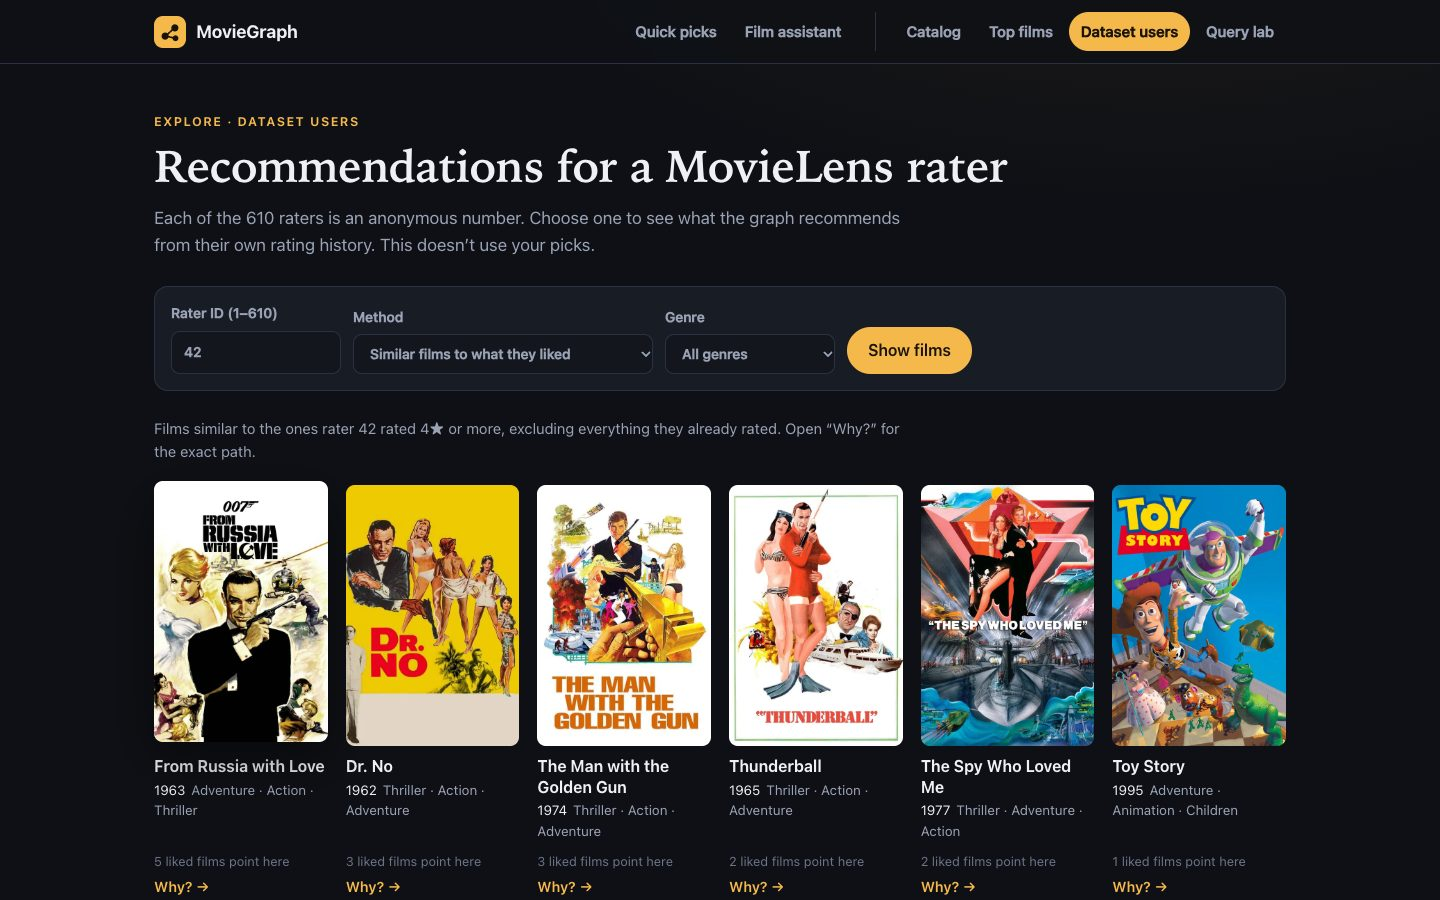
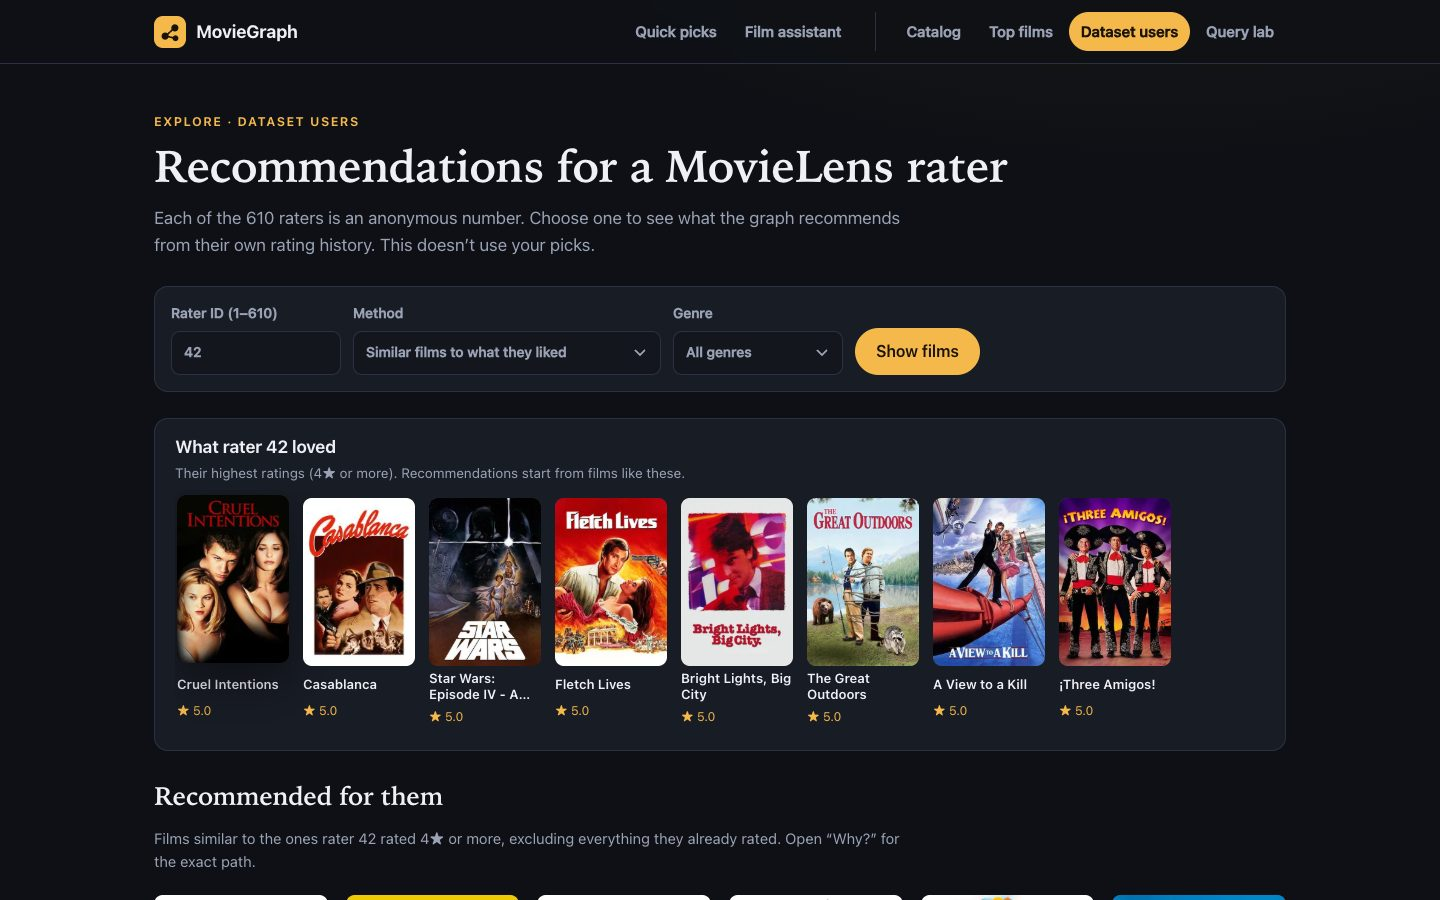
docs: refresh screenshots, endpoint table and measured results

diff --git a/README.md b/README.md
@@ -45,12 +45,12 @@ Project 4 · *Movie Recommender in Production* (Level 2)
 
 | | Feature | How it works |
 |---|---|---|
-| 🎯 | **Quick picks** | Ten rounds of five well-known films. Pick favourites, get matches, filter by genre. No account, no model. |
+| 🎯 | **Quick picks** | Ten rounds of five well-known films — click or press <kbd>1</kbd>–<kbd>5</kbd>. Pick favourites, get matches, filter by genre. No account, no model. |
 | 💬 | **Film assistant** | The same flow as a conversation. Say *“Bana sadece komedi öner”* or *“more like Fargo”* — a local LLM interprets the request, the graph returns the films. |
 | 🔍 | **“Why this film?”** | Every recommendation shows the picks it is linked to and how many raters loved both films. |
 | 📚 | **Catalog** | Full-text search over 9,742 films, genre filter, and “fans also liked” for any film. |
 | 🏆 | **Top films** | Bayesian-rated films from the snapshot’s final year, or the most central films by **PageRank**. |
-| 👥 | **Dataset users** | Item-based collaborative filtering and **Louvain** community discovery for any of the 610 MovieLens raters, with path-level evidence. |
+| 👥 | **Dataset users** | See what any of the 610 MovieLens raters loved, then their item-CF and **Louvain** community recommendations with path-level evidence. |
 | 🧪 | **Query lab** | A question in plain English becomes a typed plan → a reviewed Cypher template → real rows. Unsafe requests are rejected with HTTP 422. |
 
 **Design principle:** the language model never invents films, scores or explanations. All titles, counts and paths come from Neo4j and are shown with their provenance.
@@ -284,6 +284,7 @@ Interactive documentation: **http://localhost:18080/docs**
 | GET | `/api/movies?q=&genre=&year=&limit=&offset=` | Full-text catalog search with pagination |
 | GET | `/api/movies/{id}/similar` | Similar films (GDS) |
 | GET | `/api/movies/trending?metric=rating\|pagerank` | Historical top films / centrality |
+| GET | `/api/users/{id}/favorites` | The rater’s own 4★+ ratings (context for their recommendations) |
 | GET | `/api/users/{id}/recommendations?genre=` | Item-CF recommendations |
 | GET | `/api/users/{id}/discover` | Louvain community discovery |
 | GET | `/api/users/{u}/recommendations/{m}/explanation` | Path evidence |
@@ -309,9 +310,9 @@ curl -X POST 'http://localhost:18080/api/ask' -H 'Content-Type: application/json
 
 | Check | Result |
 |---|---|
-| Python tests (unit, API, real Neo4j/Cypher/GDS integration) | **178 passed** |
-| Frontend behavioural tests (Node test runner) | **18 passed** |
-| Statement + branch coverage (enforced ≥ 60 %) | **83.0 %** |
+| Python tests (unit, API, real Neo4j/Cypher/GDS integration) | **181 passed** |
+| Frontend behavioural tests (Node test runner) | **19 passed** |
+| Statement + branch coverage (enforced ≥ 60 %) | **83.2 %** |
 | Pylint with the course `.pylintrc` (enforced ≥ 9.5) | **9.90 / 10** |
 | Query-lab evaluation: 20 live model cases, 10 unsafe, 5 unsupported, 5 injected faults | **40 / 40** |
 | Assistant evaluation: real model + real Neo4j, 10 rounds, Turkish genre filter, tool switch, guards | **17 / 17** |
@@ -336,6 +337,8 @@ CI ([Quality workflow](.github/workflows/ci.yml)) starts the real three-service 
 | Precomputed GDS neighbours | **2.6 ms** | **4.2 ms** |
 
 Mean top-10 overlap between the two: 0.97. More detail in [docs/results.md](docs/results.md).
+
+**Page weight:** Nginx gzip plus compact poster metadata (`[file, tmdb_id]` per film) cut the first load from about **3.1 MB to 0.32 MB**. Posters are requested at the size each slot needs (92, 185 or 342 px wide), and static files are revalidated on every visit so a new release is never mixed with stale CSS or JS.
 
 ---
 

diff --git a/docs/results.md b/docs/results.md
@@ -4,12 +4,13 @@ Measured locally on 18 October 2026 after the interface redesign. These are obse
 
 ## Quality gates
 
-- **178 Python tests and 18 frontend behavioural tests passed**, including real Neo4j, Cypher, projection and GDS algorithm jobs.
-- **83.02% combined Python statement/branch coverage**, minimum enforced: 60%.
+- **181 Python tests and 19 frontend behavioural tests passed**, including real Neo4j, Cypher, projection and GDS algorithm jobs.
+- **83.15% combined Python statement/branch coverage**, minimum enforced: 60%.
 - **Pylint 9.90/10**, teacher configuration, minimum enforced: 9.5. Black reports no changes.
 - **40/40 query-lab reliability cases passed**. The 20 supported questions check intent, exact entity/filter/budget parameters and returned genre membership. Other cases distinguish scope/guardrail rejection from controlled malformed-provider fault injection.
 - **17/17 film-assistant checks passed** with the real local model and real Neo4j (ten deterministic quiz turns, Turkish comedy filter, filter retention and removal, single-favourite tool switch, two scope guards, unchanged source counts) in 22 s.
 - **14/14 live HTTP smoke checks passed** against the rebuilt container stack.
+- First-load transfer through Nginx: about 316 KB (HTML 7 KB, app.js 11.5 KB, poster metadata 298 KB gzip), down from about 3.1 MB. Posters display in Chrome and WebKit (Safari) on every screen.
 - Every notebook cell executed; real model HTTP 200, exact Sci-Fi filtering and unsafe-operation HTTP 422 are assertions.
 - The interface was driven end to end in Chrome at 1440 px and 390 px (all seven screens, dialogs, the assistant and the query lab). No screen has horizontal overflow at 375 px. Screenshots are in `docs/screenshots/`; no key appears in them.
 
